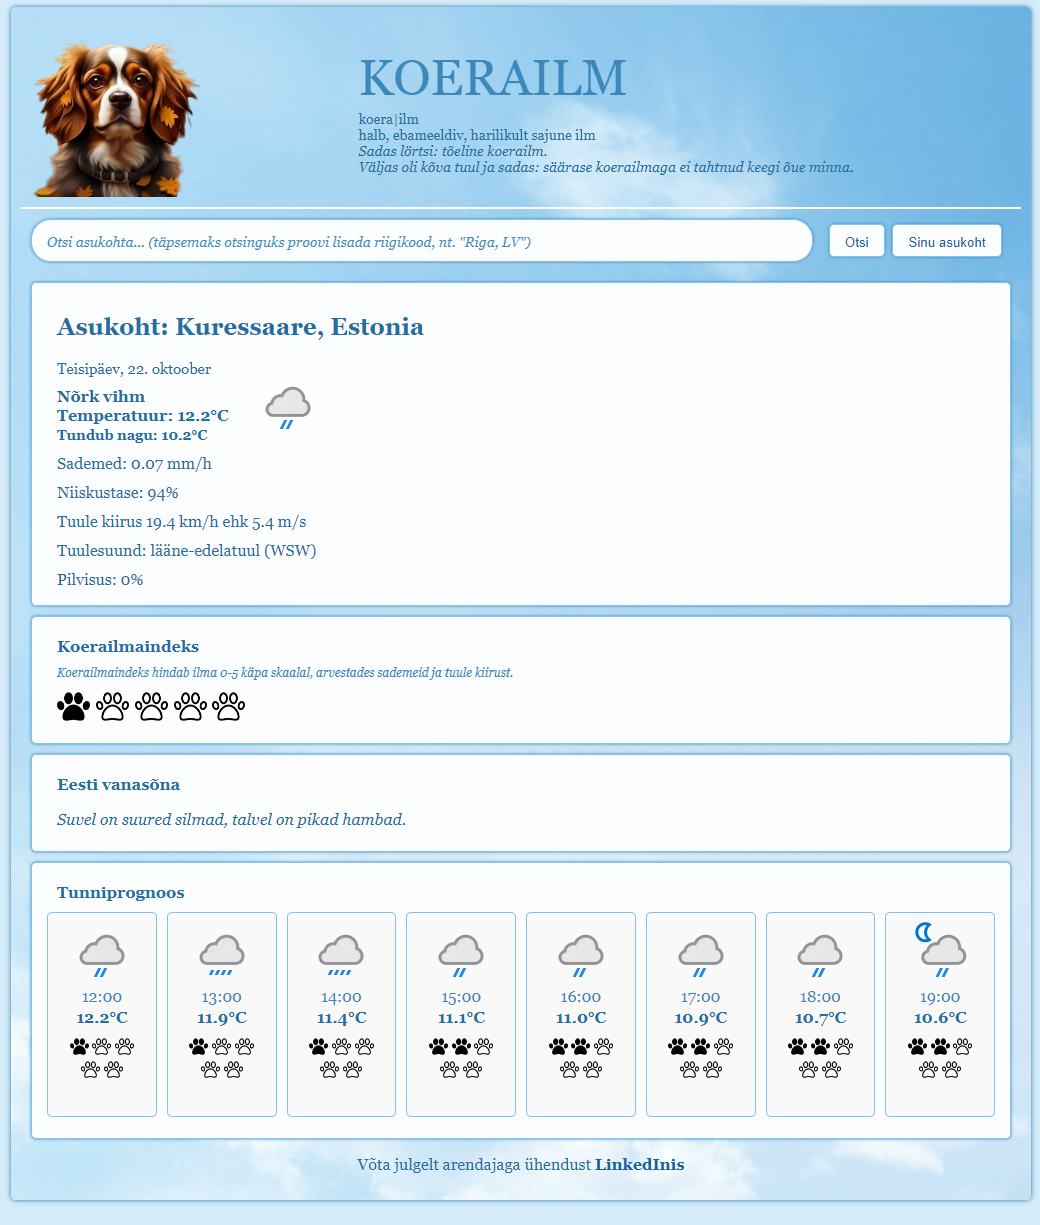
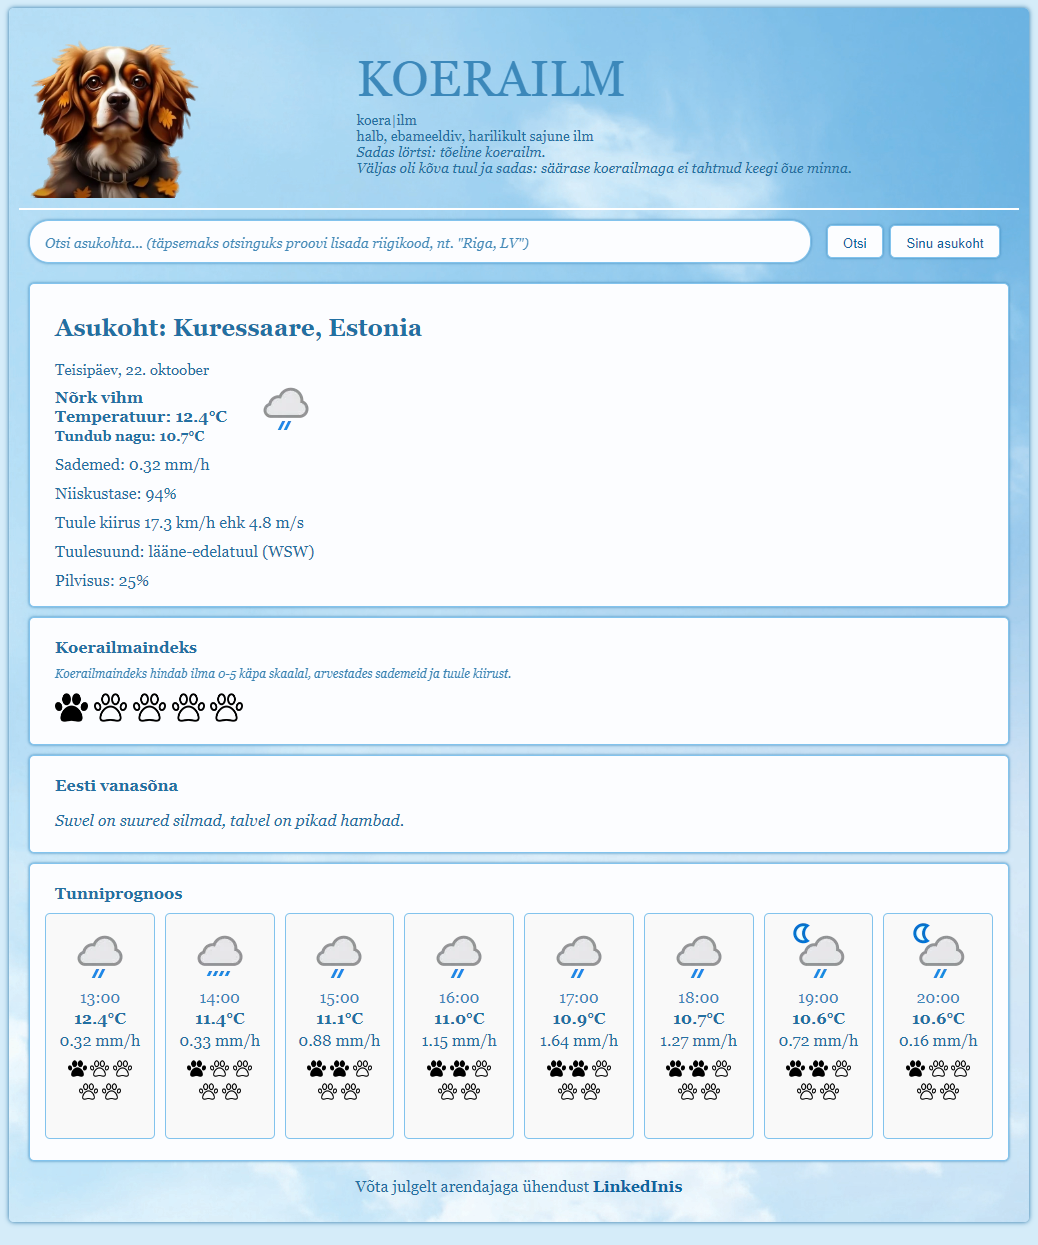
Add precipitation to hourly forecast and update demo image

Changed region(s): [[0.0, 0.031, 0.9865, 0.9927], [0.2466, 0.3102, 0.3083, 0.3412]]

diff --git a/weather_data/templates/index.html b/weather_data/templates/index.html
@@ -112,6 +112,7 @@
                             <img src="{{ weather.h_icon }}" alt="hourly forecast icon"><br>
                             <div class="h_hour">{{ weather.h_hour }}</div>
                             <div class="h_temp">{{ weather.h_temperature }}°C</div>
+                            <div class="h_precipitation">{{ weather.h_precipitation }} mm/h</div>
                             <div class="paws">
                                 {% for i in "01234" %}
                                     {% if forloop.counter0 < weather.h_dog_rating %}

diff --git a/weather_data/views.py b/weather_data/views.py
@@ -99,6 +99,7 @@ def current_weather(request):
                 'h_hour': hour_data.get('time')[11:16],
                 'h_temperature': hour_data.get('temp_c'),
                 'h_icon': hour_data.get('condition').get('icon'),
+                'h_precipitation': hour_data.get('precip_mm'),
                 'h_dog_rating': dog_weather_index(hour_data.get('wind_kph'),
                                                   hour_data.get('precip_mm'))
             })
